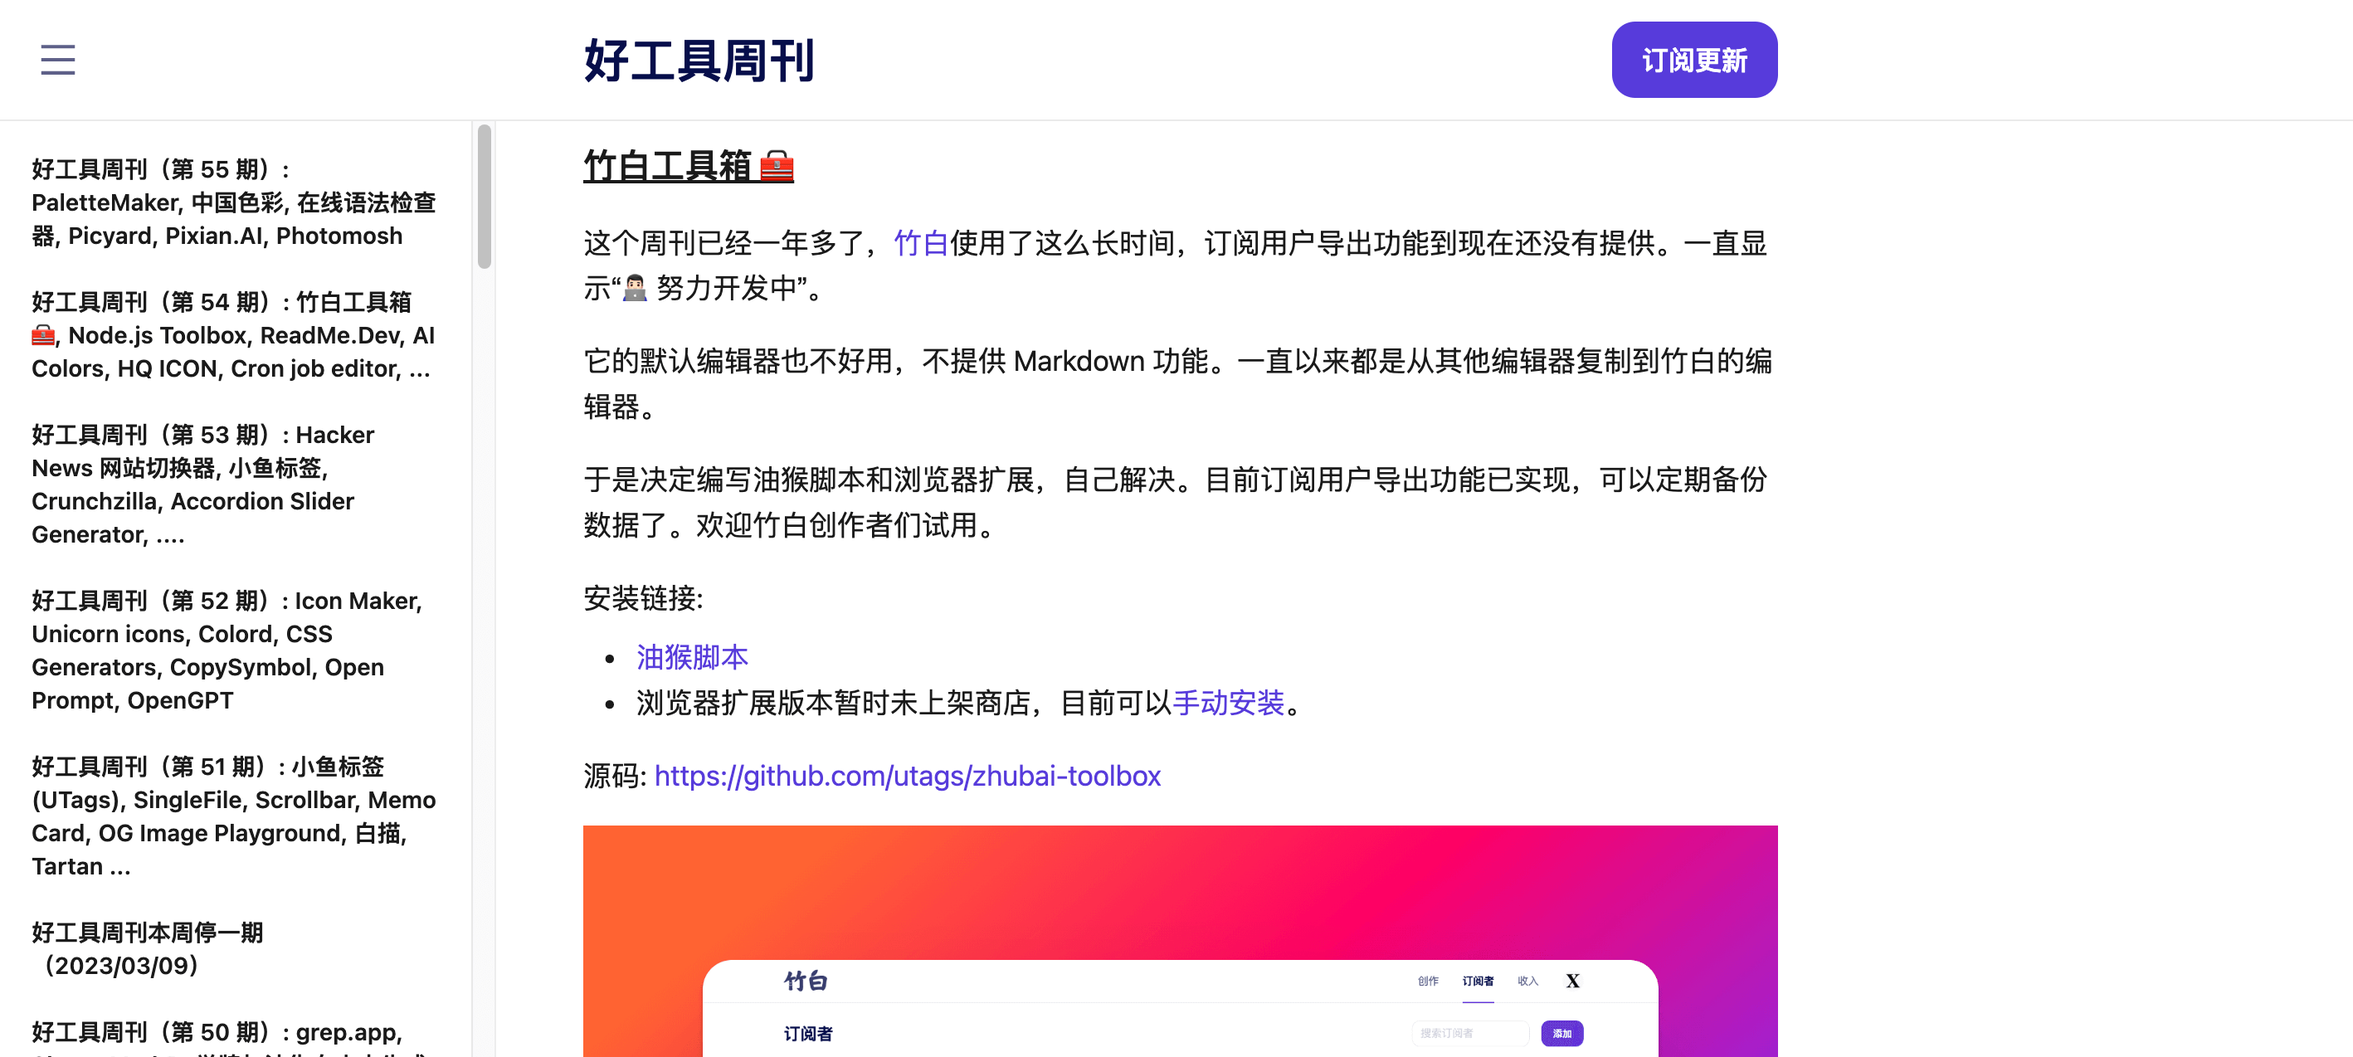
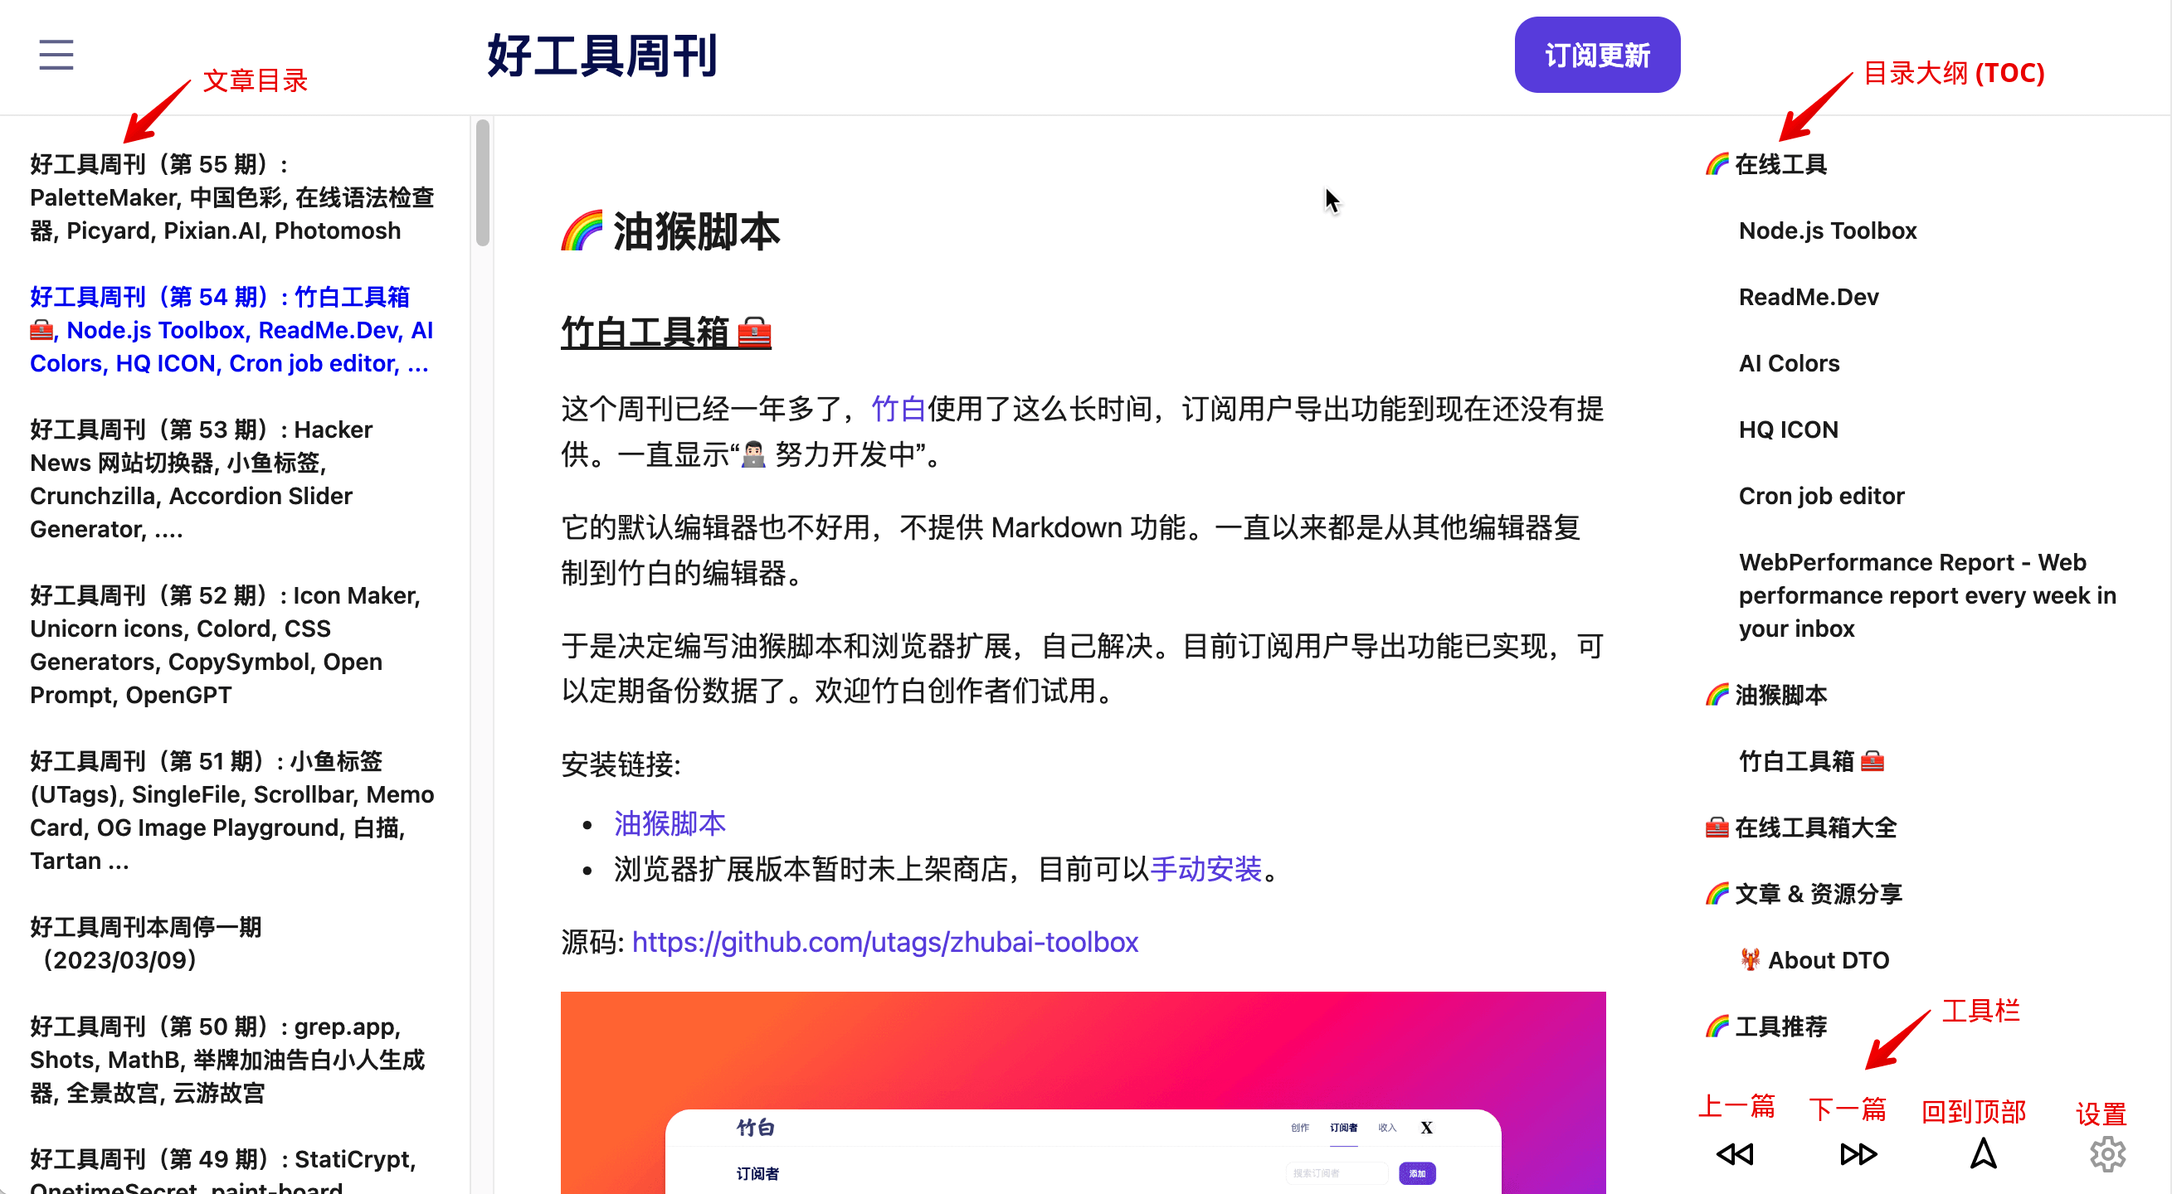
0.1.1

diff --git a/build/userscript-prod/zhubai-toolbox.user.js b/build/userscript-prod/zhubai-toolbox.user.js
@@ -4,7 +4,7 @@
 // @namespace            https://github.com/utags/zhubai-toolbox
 // @homepageURL          https://github.com/utags/zhubai-toolbox#readme
 // @supportURL           https://github.com/utags/zhubai-toolbox/issues
-// @version              0.1.0
+// @version              0.1.1
 // @description          Tools for Zhubai creators and readers. 为竹白（zhubai.love）创作者与阅读者的浏览器扩展、油猴脚本，包括详情页显示文章目录，详情页显示网站目录大纲（TOC），订阅者信息导出，Markdown 编辑器等功能。更多功能欢迎交流。
 // @description:zh-CN    为竹白（zhubai.love）创作者与阅读者的浏览器扩展、油猴脚本，包括详情页显示文章目录，详情页显示网站目录大纲（TOC），订阅者信息导出，Markdown 编辑器等功能。更多功能欢迎交流。
 // @icon                 https://zhubai.love/favicon.png
@@ -16,6 +16,8 @@
 // ==/UserScript==
 //
 //// Recent Updates
+//// - 0.1.1 2023.04.28
+////    - 详情页右侧栏显示网站目录大纲（TOC）与工具栏
 //// - 0.1.0 2023.04.27
 ////    - 详情页左侧栏显示文章目录功能
 ////
@@ -23,6 +25,9 @@
   "use strict"
   var doc = document
   var $ = (selectors, element) => (element || doc).querySelector(selectors)
+  var $$ = (selectors, element) => [
+    ...(element || doc).querySelectorAll(selectors),
+  ]
   var createElement = (tagName, attributes) =>
     setAttributes(doc.createElement(tagName), attributes)
   var addElement = (parentNode, tagName, attributes) => {
@@ -127,7 +132,7 @@
         }
       : addElement
   var content_default =
-    ".zbtb{width:100%;height:100%;position:fixed;top:72px;left:30px;padding:10px;background-color:#fff;font-weight:600;font-size:16px;color:#060e4b}.zbtb button{font-weight:600;font-size:16px;color:#060e4b}.zbtb button:disabled{opacity:40%}.zbtb textarea{width:90%;height:40%;padding:5px}#left_section{display:none}html[data-zbtb=posts-entry]{--section-width: 300px;margin-left:var(--section-width);margin-right:var(--section-width)}html[data-zbtb=posts-entry] nav{left:0}html[data-zbtb=posts-entry] #left_section{display:block;position:fixed;top:72px;left:0;padding:0 0 72px;height:100%;max-width:var(--section-width);overflow:hidden;box-sizing:border-box}html[data-zbtb=posts-entry] #left_section .container{padding:20px;height:100%;overflow:auto;box-sizing:border-box}html[data-zbtb=posts-entry] #left_section .item{display:block;text-decoration:none;margin-bottom:20px}html[data-zbtb=posts-entry] #left_section .title{margin:0;font-weight:600;font-size:14px;line-height:20px;color:#1a1a1a;word-wrap:break-word;overflow-wrap:break-word}@media(max-width: 1000px){html[data-zbtb=posts-entry]{--section-width: 200px}}"
+    ".zbtb{width:100%;height:100%;position:fixed;top:72px;left:30px;padding:10px;background-color:#fff;font-weight:600;font-size:16px;color:#060e4b}.zbtb button{font-weight:600;font-size:16px;color:#060e4b}.zbtb button:disabled{opacity:40%}.zbtb textarea{width:90%;height:40%;padding:5px}#left_aside,#right_aside{display:none}html[data-zbtb=posts-entry]{--aside-width: 300px;margin-left:var(--aside-width);margin-right:var(--aside-width)}html[data-zbtb=posts-entry] nav{left:0}html[data-zbtb=posts-entry] #left_aside,html[data-zbtb=posts-entry] #right_aside{display:block;position:fixed;top:72px;left:0;padding:0 0 72px;height:100%;max-width:var(--aside-width);overflow:hidden;box-sizing:border-box}html[data-zbtb=posts-entry] #left_aside .container,html[data-zbtb=posts-entry] #right_aside .container{padding:20px;height:100%;overflow:auto;box-sizing:border-box}html[data-zbtb=posts-entry] #left_aside .item,html[data-zbtb=posts-entry] #right_aside .item{display:block;text-decoration:none;margin-bottom:20px;cursor:pointer}html[data-zbtb=posts-entry] #left_aside .title,html[data-zbtb=posts-entry] #right_aside .title{margin:0;font-weight:600;font-size:14px;line-height:20px;color:#1a1a1a;word-wrap:break-word;overflow-wrap:break-word}html[data-zbtb=posts-entry] #left_aside .item.current .title,html[data-zbtb=posts-entry] #right_aside .item.current .title{color:var(--theme-primary-color)}html[data-zbtb=posts-entry] #right_aside{left:unset;right:0;padding:0 0 122px}html[data-zbtb=posts-entry] #right_aside h2{padding-left:20px}html[data-zbtb=posts-entry] #right_aside h3{padding-left:40px}html[data-zbtb=posts-entry] #right_aside .toolbar{display:flex;justify-content:space-around;align-items:center;overflow:hidden;box-sizing:border-box;width:var(--aside-width);height:50px}html[data-zbtb=posts-entry] #right_aside .toolbar .button{height:24px;width:24px;background:none;border:none;outline:none;border-radius:4px;font-family:inherit;-webkit-tap-highlight-color:rgba(0,0,0,0);padding:10px;color:#060e4b}html[data-zbtb=posts-entry] #right_aside .toolbar .button:hover{background:rgba(0,0,0,.05);opacity:.8}html[data-zbtb=posts-entry] #right_aside .toolbar .button.disabled{opacity:.4;background:none;cursor:not-allowed}@media(max-width: 1000px){html[data-zbtb=posts-entry]{--aside-width: 200px}}@media(max-width: 767px){html[data-zbtb=posts-entry]{--aside-width: 0}html[data-zbtb=posts-entry] #left_aside,html[data-zbtb=posts-entry] #right_aside{display:none}}"
   var listeners = {}
   var prefix = "extension."
   var getNamespacedKey = (key) => prefix + key
@@ -174,7 +179,6 @@
       return
     }
     page++
-    console.log(url, page)
     const response = await fetch(url, {})
     console.log("Fetched page", page)
     if (response.status !== 200) {
@@ -182,7 +186,6 @@
       return
     }
     const data = await response.json()
-    console.log(data)
     return data
   }
   async function updatePostList(url, updateAll = false) {
@@ -200,7 +203,6 @@
           }))
     nextUrl = (_b = data.pagination) == null ? void 0 : _b.next
     const hasNext = (_c = data.pagination) == null ? void 0 : _c.has_next
-    console.log("nextUrl", nextUrl)
     if (newList) {
       const ids = new Set(newList.map((post) => post.id))
       const oldList = (await getValue(storageKey)) || []
@@ -226,7 +228,6 @@
   }
   async function getAllPostListFromCache() {
     const posts = (await getValue(storageKey)) || []
-    console.log(posts)
     return posts
   }
   async function init(token, valueChangeListener) {
@@ -235,8 +236,6 @@
     const now = Date.now()
     const lastPageUpdatedAt = await getValue("last_page_updated_at")
     const firstPageUpdatedAt = await getValue("first_page_updated_at")
-    console.log("lastPageUpdatedAt", lastPageUpdatedAt)
-    console.log("firstPageUpdatedAt", firstPageUpdatedAt)
     if (
       !lastPageUpdatedAt ||
       now - lastPageUpdatedAt > 10 * 24 * 60 * 60 * 1e3
@@ -248,27 +247,167 @@
     addValueChangeListener(storageKey, valueChangeListener)
   }
   async function showPostList() {
-    const section =
-      $("#left_section") ||
-      addElement2(document.body, "section", {
-        id: "left_section",
+    const aside =
+      $("#left_aside") ||
+      addElement2(document.body, "aside", {
+        id: "left_aside",
       })
     const container =
-      $("#left_section .container") ||
-      addElement2(section, "div", {
+      $("#left_aside .container") ||
+      addElement2(aside, "div", {
         class: "container",
       })
     container.innerHTML = ""
+    const currentId = (/posts\/(\d+)/.exec(location.pathname) || [])[1]
     const postList = await getAllPostListFromCache()
     for (const post of postList) {
       const a = addElement2(container, "a", {
-        class: "item",
+        class: currentId === post.id ? "item current" : "item",
         href: "/posts/" + post.id,
       })
+      if (currentId === post.id) {
+        setTimeout(() => {
+          a.scrollIntoView({ block: "nearest" })
+        }, 1)
+      }
       addElement2(a, "h2", {
         class: "title",
         textContent: post.title,
       })
+    }
+  }
+  async function showToolbar() {
+    const aside =
+      $("#right_aside") ||
+      addElement2(document.body, "aside", {
+        id: "right_aside",
+      })
+    const container =
+      $("#right_aside .toolbar") ||
+      addElement2(aside, "div", {
+        class: "toolbar",
+      })
+    container.innerHTML = ""
+    const currentId = (/posts\/(\d+)/.exec(location.pathname) || [])[1]
+    let previousId
+    let nextId
+    const postList = await getAllPostListFromCache()
+    for (let i = 0; i < postList.length; i++) {
+      const post = postList[i]
+      if (post.id === currentId) {
+        if (i > 0) {
+          previousId = postList[i - 1].id
+        }
+        if (i < postList.length - 1) {
+          nextId = postList[i + 1].id
+        }
+      }
+    }
+    addElement2(container, "a", {
+      class: previousId ? "button" : "button disabled",
+      href: previousId ? "/posts/" + previousId : "",
+      title: "\u4E0A\u4E00\u671F",
+      innerHTML: `<svg width="24" height="24" viewBox="0 0 24 24" fill="none" xmlns="http://www.w3.org/2000/svg">
+<path fill-rule="evenodd" clip-rule="evenodd" d="M10.4699 5.45621C11.136 5.03993 11.9999 5.51878 11.9999 6.30421V11.5353C12.0782 11.3852 12.1972 11.2517 12.3567 11.152L21.4699 5.45621C22.136 5.03993 22.9999 5.51878 22.9999 6.30421V17.6957C22.9999 18.4811 22.136 18.96 21.4699 18.5437L12.3567 12.848C12.1972 12.7482 12.0782 12.6147 11.9999 12.4647V17.6957C11.9999 18.4811 11.136 18.96 10.4699 18.5437L1.35672 12.848C0.730053 12.4563 0.730051 11.5436 1.35672 11.152L10.4699 5.45621ZM3.77351 12L9.99991 8.10845V15.8915L3.77351 12ZM20.9999 8.10845L14.7735 12L20.9999 15.8915V8.10845Z" fill="black"/>
+</svg>`,
+      onclick(event) {
+        if (!previousId) {
+          event.preventDefault()
+        }
+      },
+    })
+    addElement2(container, "a", {
+      class: nextId ? "button" : "button disabled",
+      href: nextId ? "/posts/" + nextId : "",
+      title: "\u4E0B\u4E00\u671F",
+      innerHTML: `<svg width="24" height="24" viewBox="0 0 24 24" fill="none" xmlns="http://www.w3.org/2000/svg">
+    <path fill-rule="evenodd" clip-rule="evenodd" d="M2.53 18.5437C1.86395 18.96 1 18.4811 1 17.6957V6.30421C1 5.51878 1.86395 5.03993 2.53 5.45621L11.6432 11.152C11.8028 11.2517 11.9217 11.3852 12 11.5353V6.30421C12 5.51878 12.864 5.03993 13.53 5.45621L22.6432 11.152C23.2699 11.5436 23.2699 12.4563 22.6432 12.848L13.53 18.5437C12.864 18.96 12 18.4811 12 17.6957V12.4647C11.9217 12.6147 11.8028 12.7482 11.6432 12.848L2.53 18.5437ZM9.22641 12L3 15.8915V8.10846L9.22641 12ZM14 15.8915L20.2264 12L14 8.10846V15.8915Z" fill="black"/>
+    </svg>
+    `,
+      onclick(event) {
+        if (!nextId) {
+          event.preventDefault()
+        }
+      },
+    })
+    addElement2(container, "a", {
+      class: "button",
+      title: "\u56DE\u5230\u9876\u90E8",
+      innerHTML: `<svg width="24" height="24" viewBox="0 0 24 24" fill="none" xmlns="http://www.w3.org/2000/svg">
+<path fill-rule="evenodd" clip-rule="evenodd" d="M5.48967 20.617L12.0002 17L18.5107 20.617C19.3368 21.0759 20.2797 20.2388 19.9219 19.3642L12.9257 2.26248C12.5868 1.43399 11.4136 1.43399 11.0746 2.26248L4.07848 19.3642C3.72069 20.2388 4.66363 21.0759 5.48967 20.617ZM7.00787 17.4856L12.0002 5.28219L16.9925 17.4856L12.9715 15.2517C12.3674 14.9161 11.6329 14.9161 11.0289 15.2517L7.00787 17.4856Z" fill="black"/>
+</svg>`,
+      onclick() {
+        var _a
+        ;(_a = document.scrollingElement) == null
+          ? void 0
+          : _a.scrollTo({
+              top: 0,
+            })
+      },
+    })
+    addElement2(container, "a", {
+      class: "button disabled",
+      title:
+        "\u8BBE\u7F6E\uFF08\u4E0B\u4E2A\u7248\u672C\u63A8\u51FA\u6B64\u529F\u80FD\uFF09",
+      innerHTML: `<svg width="24" height="24" viewBox="0 0 24 24" fill="none" xmlns="http://www.w3.org/2000/svg">
+<path fill-rule="evenodd" clip-rule="evenodd" d="M12.0002 16C14.2094 16 16.0002 14.2091 16.0002 12C16.0002 9.79086 14.2094 8 12.0002 8C9.79109 8 8.00023 9.79086 8.00023 12C8.00023 14.2091 9.79109 16 12.0002 16ZM12.0002 14C13.1048 14 14.0002 13.1046 14.0002 12C14.0002 10.8954 13.1048 10 12.0002 10C10.8957 10 10.0002 10.8954 10.0002 12C10.0002 13.1046 10.8957 14 12.0002 14Z" fill="black"/>
+<path fill-rule="evenodd" clip-rule="evenodd" d="M15.1182 1.86489L15.5203 4.81406C15.8475 4.97464 16.1621 5.1569 16.4623 5.35898L19.2185 4.23223C19.6814 4.043 20.2129 4.2248 20.463 4.65787L22.5901 8.34213C22.8401 8.77521 22.7318 9.3264 22.3365 9.63266L19.9821 11.4566C19.9941 11.6362 20.0002 11.8174 20.0002 12C20.0002 12.1826 19.9941 12.3638 19.9821 12.5434L22.3365 14.3673C22.7318 14.6736 22.8401 15.2248 22.5901 15.6579L20.463 19.3421C20.2129 19.7752 19.6814 19.957 19.2185 19.7678L16.4623 18.641C16.1621 18.8431 15.8475 19.0254 15.5203 19.1859L15.1182 22.1351C15.0506 22.6306 14.6274 23 14.1273 23H9.87313C9.37306 23 8.94987 22.6306 8.8823 22.1351L8.48014 19.1859C8.15296 19.0254 7.83835 18.8431 7.53818 18.641L4.78195 19.7678C4.31907 19.957 3.78756 19.7752 3.53752 19.3421L1.41042 15.6579C1.16038 15.2248 1.26869 14.6736 1.66401 14.3673L4.01841 12.5434C4.00636 12.3638 4.00025 12.1826 4.00025 12C4.00025 11.8174 4.00636 11.6362 4.01841 11.4566L1.66401 9.63266C1.26869 9.3264 1.16038 8.77521 1.41041 8.34213L3.53752 4.65787C3.78755 4.2248 4.31906 4.043 4.78195 4.23223L7.53818 5.35898C7.83835 5.1569 8.15296 4.97464 8.48014 4.81406L8.8823 1.86489C8.94987 1.3694 9.37306 1 9.87313 1H14.1273C14.6274 1 15.0506 1.3694 15.1182 1.86489ZM13.6826 6.14004L14.6392 6.60948C14.8842 6.72975 15.1201 6.86639 15.3454 7.01805L16.231 7.61423L19.1674 6.41382L20.4216 8.58619L17.9153 10.5278L17.9866 11.5905C17.9956 11.7255 18.0002 11.8621 18.0002 12C18.0002 12.1379 17.9956 12.2745 17.9866 12.4095L17.9153 13.4722L20.4216 15.4138L19.1674 17.5862L16.231 16.3858L15.3454 16.982C15.1201 17.1336 14.8842 17.2702 14.6392 17.3905L13.6826 17.86L13.2545 21H10.746L10.3178 17.86L9.36131 17.3905C9.11626 17.2702 8.88037 17.1336 8.6551 16.982L7.76954 16.3858L4.83313 17.5862L3.57891 15.4138L6.0852 13.4722L6.01392 12.4095C6.00487 12.2745 6.00024 12.1379 6.00024 12C6.00024 11.8621 6.00487 11.7255 6.01392 11.5905L6.0852 10.5278L3.57891 8.58619L4.83312 6.41382L7.76953 7.61423L8.6551 7.01805C8.88037 6.86639 9.11625 6.72976 9.36131 6.60949L10.3178 6.14004L10.746 3H13.2545L13.6826 6.14004Z" fill="black"/>
+</svg>`,
+      onclick() {},
+    })
+    if (
+      !postList ||
+      postList.length === 0 ||
+      (postList.length > 1 && !previousId && !nextId)
+    ) {
+      setTimeout(showToolbar, 100)
+    }
+  }
+  function showTOC() {
+    var _a
+    const aside =
+      $("#right_aside") ||
+      addElement2(document.body, "aside", {
+        id: "right_aside",
+      })
+    const container =
+      $("#right_aside .container") ||
+      addElement2(aside, "div", {
+        class: "container",
+      })
+    container.innerHTML = ""
+    let skippedFirst = false
+    for (const heading of $$("#root h1, #root h2, #root h3")) {
+      if (!skippedFirst) {
+        skippedFirst = true
+        continue
+      }
+      const a = addElement2(container, "a", {
+        class: "item",
+        onclick() {
+          setTimeout(() => {
+            heading.scrollIntoView({ block: "start" })
+            setTimeout(() => {
+              var _a2
+              ;(_a2 = document.scrollingElement) == null
+                ? void 0
+                : _a2.scrollBy({
+                    top: -92,
+                  })
+            }, 1)
+          })
+        },
+      })
+      addElement2(a, heading.tagName.toLowerCase(), {
+        class: "title",
+        textContent:
+          (_a = heading.textContent) == null
+            ? void 0
+            : _a.replace(/(↗|→)$/, ""),
+      })
+    }
+    if (!skippedFirst) {
+      setTimeout(showTOC, 100)
     }
   }
   var config = {
@@ -385,13 +524,16 @@
       })
     }
     const url = location.href
-    if (/^https:\/\/\w+\.zhubai\.love\/posts\//.test(url)) {
+    if (
+      /^https:\/\/\w+\.zhubai\.love\/posts\//.test(url) &&
+      !location.pathname.includes("edit")
+    ) {
       document.documentElement.dataset.zbtb = "posts-entry"
-      ;(async () => {
-        const token = location.hostname.split(".")[0]
-        await init(token, showPostList)
-        await showPostList()
-      })()
+      const token = location.hostname.split(".")[0]
+      await init(token, showPostList)
+      await showPostList()
+      showTOC()
+      await showToolbar()
     } else if (url.includes("https://zhubai.love/creator/subscribers")) {
       const intervalId = setInterval(() => {
         const button = document.querySelector("th:nth-of-type(6) button")

diff --git a/userscript-desc/readme.md b/userscript-desc/readme.md
@@ -11,15 +11,15 @@ Tools for Zhubai creators and readers.
 ## 功能
 
 - 详情页左侧栏显示文章目录 ✅
-- 详情页右侧栏显示网站目录大纲（TOC）(Comming soon)
+- 详情页右侧栏显示网站目录大纲（TOC）✅
 - 订阅者信息导出 ✅
 - Markdown 编辑器 (Comming soon)
 
 ## 截图
 
-- 详情页左侧栏显示文章目录
+- 详情页左侧栏显示文章目录，详情页右侧栏显示网站目录大纲（TOC）、工具栏
 
-![zhubai-toolbox-screenshots-03.png](https://greasyfork.s3.us-east-2.amazonaws.com/slscvb6ocxtqu61st4rnclw0lhv8)
+![zhubai-toolbox-screenshots-03.png](https://greasyfork.s3.us-east-2.amazonaws.com/nuiiynr2j8nyjp1toyty40s5y2d9)
 
 - 订阅者信息导出
 

diff --git a/userscript-desc/zh-CN.md b/userscript-desc/zh-CN.md
@@ -9,15 +9,15 @@
 ## 功能
 
 - 详情页左侧栏显示文章目录 ✅
-- 详情页右侧栏显示网站目录大纲（TOC）(Comming soon)
+- 详情页右侧栏显示网站目录大纲（TOC） ✅
 - 订阅者信息导出 ✅
 - Markdown 编辑器 (Comming soon)
 
 ## 截图
 
-- 详情页左侧栏显示文章目录
+- 详情页左侧栏显示文章目录，详情页右侧栏显示网站目录大纲（TOC）、工具栏
 
-![zhubai-toolbox-screenshots-03.png](https://greasyfork.s3.us-east-2.amazonaws.com/slscvb6ocxtqu61st4rnclw0lhv8)
+![zhubai-toolbox-screenshots-03.png](https://greasyfork.s3.us-east-2.amazonaws.com/nuiiynr2j8nyjp1toyty40s5y2d9)
 
 - 订阅者信息导出
 

diff --git a/README.md b/README.md
@@ -9,13 +9,13 @@
 ## 功能
 
 - 详情页左侧栏显示文章目录 ✅
-- 详情页右侧栏显示网站目录大纲（TOC）(Comming soon)
+- 详情页右侧栏显示网站目录大纲（TOC） ✅
 - 订阅者信息导出 ✅
 - Markdown 编辑器 (Comming soon)
 
 ## 截图
 
-- 详情页左侧栏显示文章目录
+- 详情页左侧栏显示文章目录，详情页右侧栏显示网站目录大纲（TOC）、工具栏
 
 ![zhubai-toolbox-screenshots-03.png](assets/zhubai-toolbox-screenshots-03.png)
 
